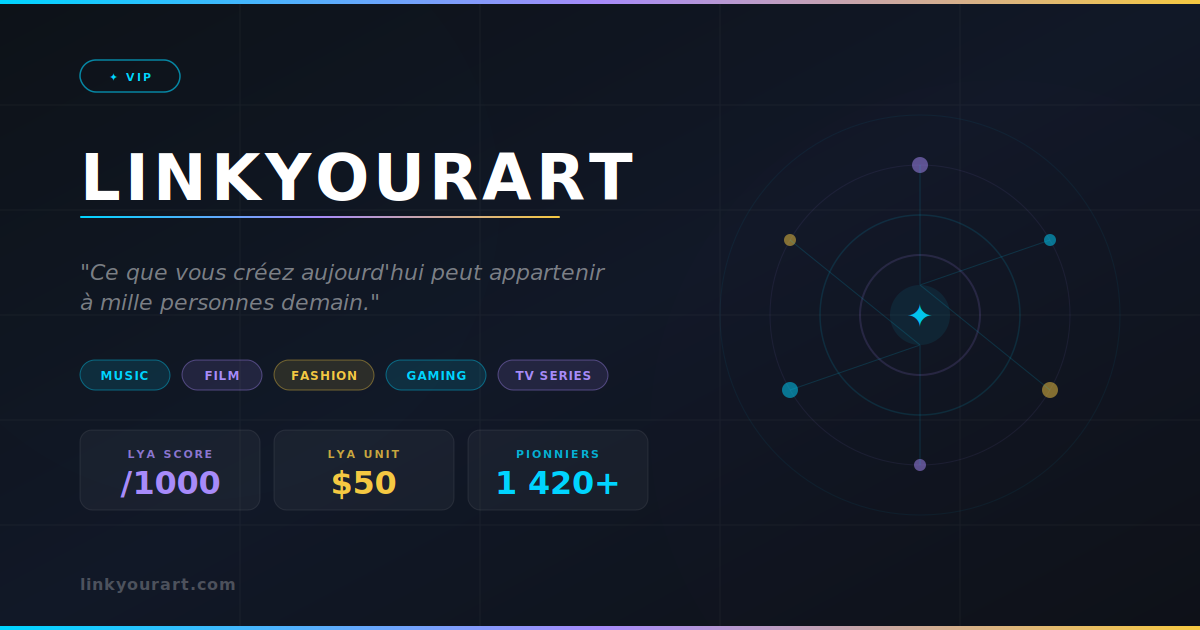
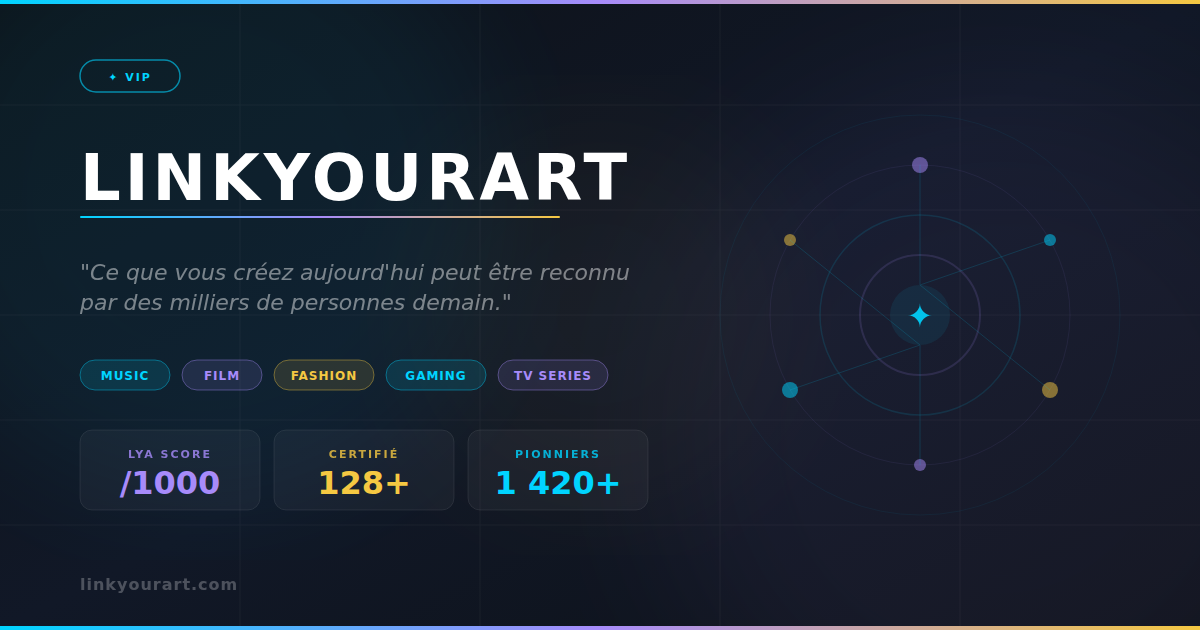
Fix source réelle du problème : index.html + seo.ts + og-image (jamais vérifiés, hors src/)
TROUVÉ LA VRAIE CAUSE de 'la page ne change jamais' :
- index.html (title, meta description/keywords, og:*, twitter:*, JSON-LD structured data) contenait
  encore 'ART IS AN EXCHANGE', 'co-ownership platform', 'LYA Units', la citation à risque -- ce fichier
  n'est PAS dans src/ donc jamais touché par mes corrections précédentes sur les composants React
- src/utils/seo.ts : la fonction resetPageMeta() réinjecte DYNAMIQUEMENT au chargement un titre/description
  codés en dur ('L'art est un échange', 'plateforme d'équité créative', 'Co-possédez des projets') qui
  écrasait à l'exécution mes corrections statiques d'index.html -- c'est très probablement la cause
  exacte du problème signalé
- public/og-image.svg : citation à risque + bloc 'LYA UNIT 0' gravés dans l'image de partage social
- public/og-image.png : regénéré depuis le SVG corrigé (fichier binaire statique, ne se met jamais à jour tout seul)

Vérifié : npx tsc --noEmit (0 erreur), npm run build (succès), image PNG validée (1200x630, 10582 couleurs)

diff --git a/index.html b/index.html
@@ -5,9 +5,9 @@
     <meta name="viewport" content="width=device-width, initial-scale=1.0" />
 
     <!-- ── TITLE & SEO ──────────────────────────────────────────── -->
-    <title>LinkYourArt — Ce que vous créez aujourd'hui peut appartenir à mille personnes demain</title>
-    <meta name="description" content="LinkYourArt (LYA) — The first creative co-ownership platform. Support artistic projects, earn revenues, exchange LYA Units. Music, Film, Fashion, Architecture, Gaming, TV Series." />
-    <meta name="keywords" content="LinkYourArt, LYA, co-propriété créative, droits créatifs, mécénat artistique, LYA Unit, LYA Score, art, musique, cinéma, mode, gaming" />
+    <title>LinkYourArt — Ce que vous créez aujourd'hui peut être reconnu par des milliers de personnes demain</title>
+    <meta name="description" content="LinkYourArt (LYA) — The first creative certification standard. Certify artistic projects, support creators, follow the LYA Score. Music, Film, Fashion, Architecture, Gaming, TV Series." />
+    <meta name="keywords" content="LinkYourArt, LYA, certification créative, droits créatifs, mécénat artistique, LYA Score, art, musique, cinéma, mode, gaming" />
     <meta name="author" content="LinkYourArt" />
     <meta name="robots" content="index, follow" />
     <link rel="canonical" href="https://linkyourart.com" />
@@ -25,13 +25,13 @@
     <!-- ── OPEN GRAPH (LinkedIn, Facebook, WhatsApp) ─────────────── -->
     <meta property="og:type" content="website" />
     <meta property="og:url" content="https://linkyourart.com" />
-    <meta property="og:title" content="LinkYourArt — ART IS AN EXCHANGE" />
-    <meta property="og:description" content="What you create today can belong to a thousand people tomorrow. The first creative co-ownership platform — for creators, patrons and professionals worldwide." />
+    <meta property="og:title" content="LinkYourArt — ART IS A STANDARD" />
+    <meta property="og:description" content="What you create today can be recognized by thousands tomorrow. The first creative certification standard — for creators, patrons and professionals worldwide." />
     <meta property="og:image" content="https://linkyourart.com/og-image.png?v=1782282993" />
     <meta property="og:image:width" content="1200" />
     <meta property="og:image:height" content="630" />
     <meta property="og:image:type" content="image/png" />
-    <meta property="og:image:alt" content="LinkYourArt — ART IS AN EXCHANGE" />
+    <meta property="og:image:alt" content="LinkYourArt — ART IS A STANDARD" />
     <meta property="og:site_name" content="LinkYourArt" />
     <meta property="og:locale" content="en_US" />
     <meta property="og:locale:alternate" content="fr_FR" />
@@ -40,10 +40,10 @@
     <meta name="twitter:card" content="summary_large_image" />
     <meta name="twitter:site" content="@LinkYourArt" />
     <meta name="twitter:creator" content="@LinkYourArt" />
-    <meta name="twitter:title" content="LinkYourArt — ART IS AN EXCHANGE" />
-    <meta name="twitter:description" content="The first creative co-ownership platform. Support artistic projects, earn revenues, exchange LYA Units. Music · Film · Fashion · Gaming · Architecture · TV Series." />
+    <meta name="twitter:title" content="LinkYourArt — ART IS A STANDARD" />
+    <meta name="twitter:description" content="The first creative certification standard. Certify artistic projects, support creators, follow the LYA Score. Music · Film · Fashion · Gaming · Architecture · TV Series." />
     <meta name="twitter:image" content="https://linkyourart.com/og-image.png?v=1782282993" />
-    <meta name="twitter:image:alt" content="LinkYourArt — ART IS AN EXCHANGE" />
+    <meta name="twitter:image:alt" content="LinkYourArt — ART IS A STANDARD" />
 
     <!-- ── LINKEDIN SPECIFIC ─────────────────────────────────────── -->
     <meta property="og:image:secure_url" content="https://linkyourart.com/og-image.png?v=1782282993" />
@@ -56,7 +56,7 @@
       "name": "LinkYourArt",
       "alternateName": "LYA",
       "url": "https://linkyourart.com",
-      "description": "The first creative co-ownership platform. Support artistic projects and earn revenues through LYA Units.",
+      "description": "The first creative certification standard. Certify artistic projects and follow their LYA Score.",
       "potentialAction": {
         "@type": "SearchAction",
         "target": "https://linkyourart.com?search={search_term_string}",

diff --git a/src/utils/seo.ts b/src/utils/seo.ts
@@ -31,8 +31,8 @@ export const updatePageMeta = (params: {
 // Reset vers les méta-tags par défaut
 export const resetPageMeta = () => {
   updatePageMeta({
-    title: 'L\'art est un échange',
-    description: 'La première plateforme d\'équité créative. Co-possédez des projets artistiques sur LinkYourArt.',
+    title: 'Ce que vous créez aujourd\'hui peut être reconnu par des milliers de personnes demain',
+    description: 'La première plateforme de certification créative. Certifiez vos projets artistiques et suivez leur Score LYA sur LinkYourArt.',
     url: 'https://linkyourart.com',
   });
 };
